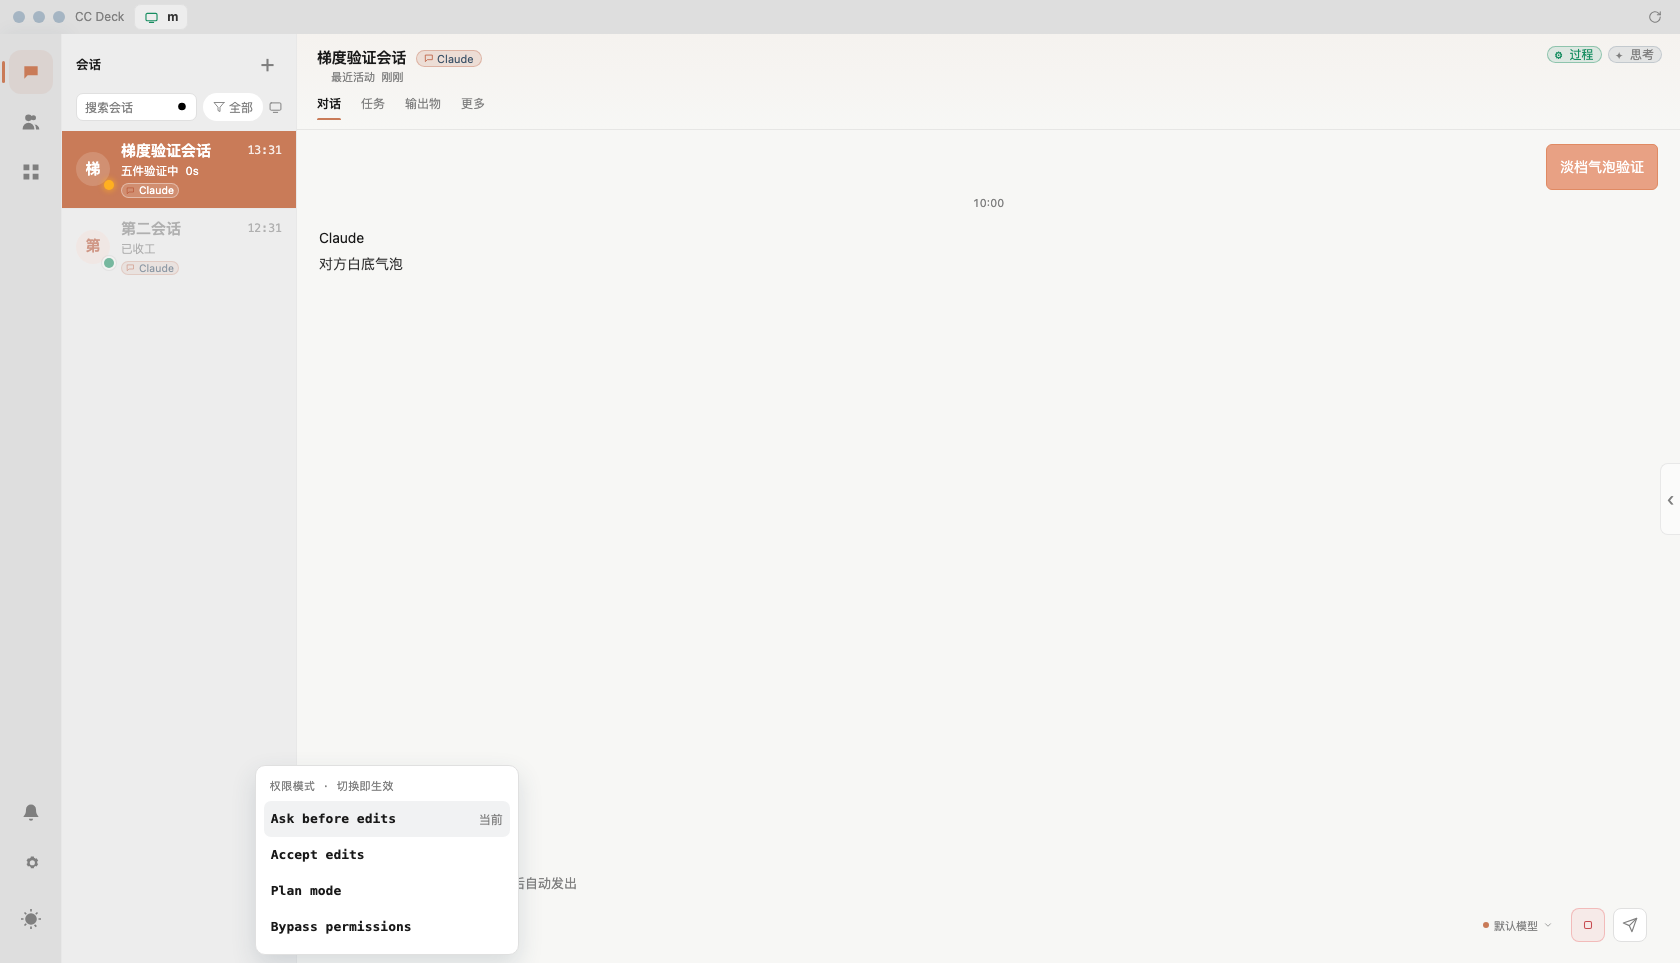
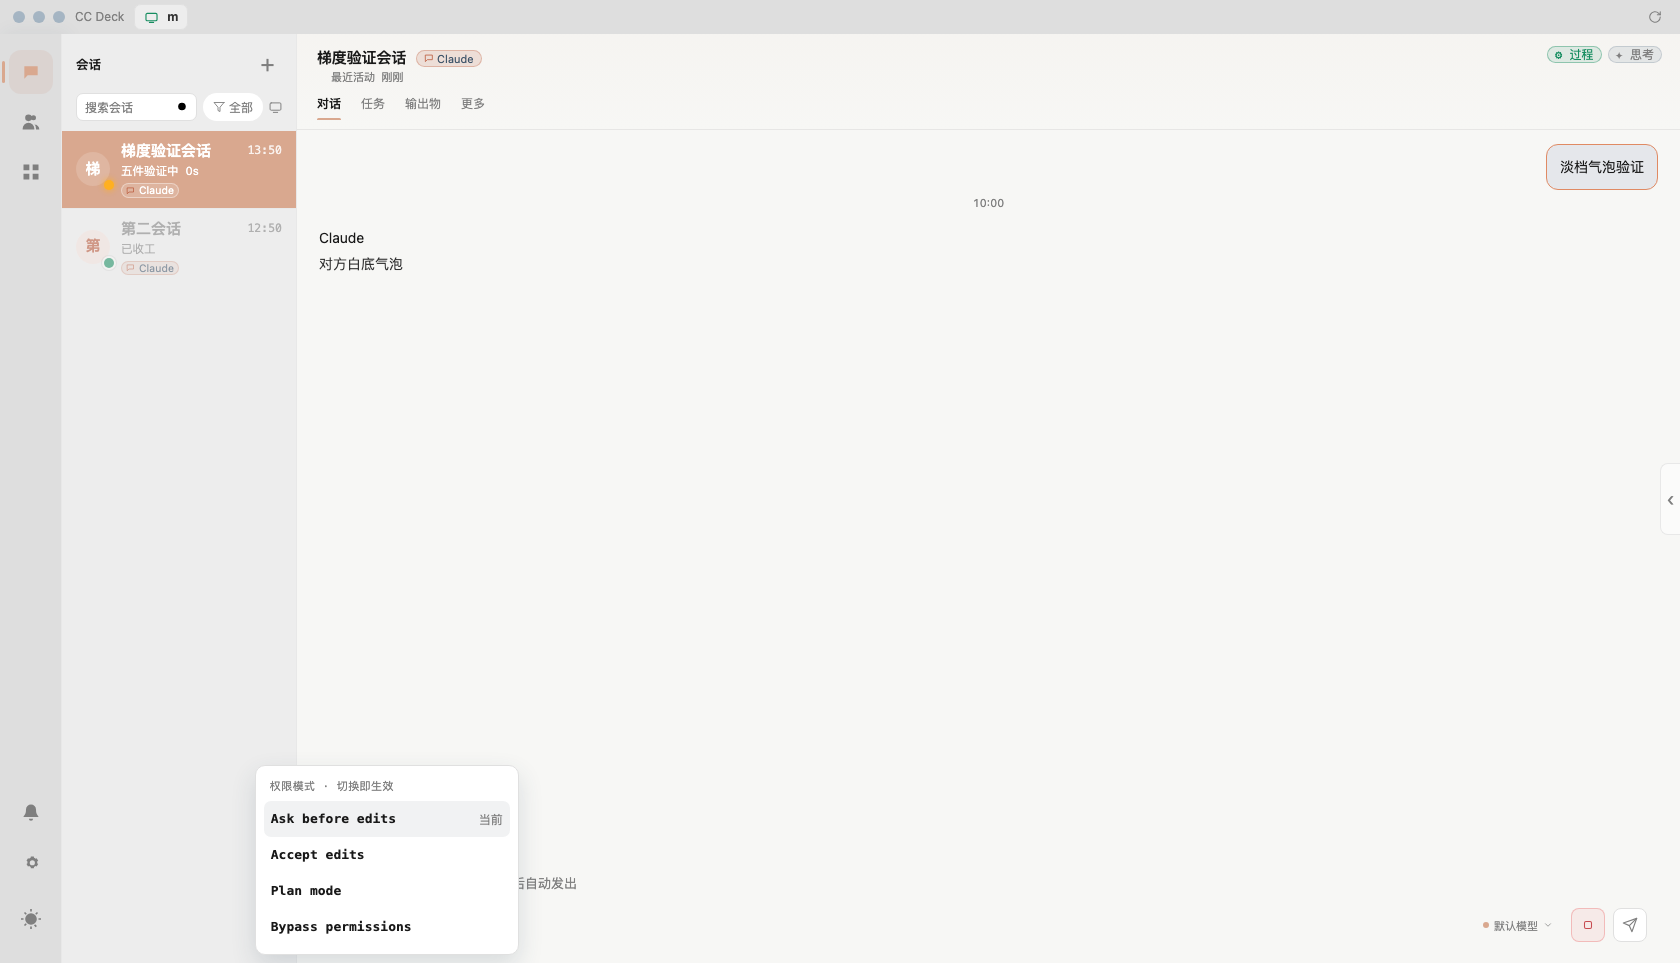
[正经立项] test.47 二轮：气泡换中性灰系+选中再降深度（#201 W-T47FIX 追加）
- 己方气泡橙系全退役→WorkBuddy 实证形态：亮 #E5E7EB 中性浅灰底+深色文字
  （--text-strong）、暗 #2A2F36 深灰底浅字（--text-strong 自动成立）；圆角
  6px→12px 大圆角（实证 ~30% 元素高）；.bubble.me 白字/白底代码块规则退役
- 选中行再降深度：亮 --brand/--selected-bg #C97B58→#D9A88F（浅灰橙向中性
  靠一档）；暗 #C97F60→#A8826C——选中可辨但轻
- 像素实证：亮选中行 #D9A88F ✓/亮气泡 #E5E7EB 22596 命中 ✓/暗气泡
  #2A2F36 253 命中 ✓；slim 35/0+ui-rows 143/0；五图重拍入 shots/

Changed region(s): [[0.031, 0.1246, 0.1857, 0.2181], [0.8976, 0.1246, 0.9905, 0.2181], [0.0, 0.0623, 0.031, 0.0935]]

diff --git a/web-console/css/tokens.css b/web-console/css/tokens.css
@@ -16,7 +16,7 @@
       --card-sub: #A9B6C9;
       --faint: #7A889F;
       --progress-fill: #6E8299;
-      --brand: #C97F60; /* #201①：暗色品牌橙降饱和档（原 #E08A63 太艳） */
+      --brand: #A8826C; /* #201 二轮：暗色选中降深度（浅一档向中性靠） */
       --brand-hover: #EC9A73;
       --brand-strong: #C96442;
       --brand-soft: #3A251F;
@@ -81,8 +81,8 @@
       --action-bg: rgba(226,133,94,.16);
       --done-bg: rgba(75,203,145,.12);
       --info-bg: rgba(126,175,232,.13);
-      --me-bg: #9C5535; /* #193：随 bubble-me-bg 暗色橙深档 */ /* W-UIPOLISH4 件八（2026-10-12 用户深色实测「与背景全同色」）：#0E1927 与对话列底 #0B1624 差 3/千亮度不可辨——抬到表面层 surface2 同值（旧壳 panel-2「表面层」语义同源），仅边框语言保留 */
-      --bubble-me-bg: #9C5535; /* #193：暗色己方气泡=品牌橙深档（终验抓出的漏改行——.bubble.me 消费此键） */
+      --me-bg: #2A2F36; /* #201 二轮：暗色己方气泡=深灰底（亮 #E5E7EB 对应档）+浅字 */
+      --bubble-me-bg: #2A2F36; /* #201 二轮：暗色深灰底 */
       --me-line: rgba(224,138,99,.45); /* #198 件③：暗色己方气泡描边随品牌橙（蓝灰与橙底同框突兀） */
       --action-ink: #211B0E;
       --done-ink: #082116;
@@ -179,7 +179,7 @@
       --card-sub: #808080; /* 微信摘要灰（#198 件②：#999 对浅底对比不足，提到 4.0:1 档） */
       --faint: #808080;
       --progress-fill: #B2B2B2;
-      --brand: #C97B58; /* #201①：选中橙降饱和档（#B85228 太艳→降饱和提明度，保持橙系身份；三列梯度⑤同批校准） */
+      --brand: #D9A88F; /* #201 二轮：选中色再降深度——浅灰橙（#C97B58→#D9A88F，向中性靠一档；选中态仍可辨但轻） */
       --brand-hover: #C96442;
       --brand-strong: #96391A;
       --brand-soft: #FBE7DE;
@@ -222,7 +222,7 @@
       --card-veil: #FFFFFF;
       --border-strong: #D5D5D5;
       --selected-line: #E08A63; /* #193：选中=品牌橙整行（.queue-card.selected 形制同批改） */
-      --selected-bg: #E8A184; /* #201①：选中橙降饱和档（随 --brand 同批） */
+      --selected-bg: #D9A88F; /* #201 二轮：随 --brand 浅灰橙档 */
       --shadow-hover: 0 8px 20px rgba(50,74,96,.14);
       --selected-shadow: 0 8px 20px rgba(50,74,96,.12);
       --status-done-glow: rgba(22,141,96,.24);
@@ -237,8 +237,8 @@
       --action-bg: rgba(200,100,64,.14);
       --done-bg: rgba(22,141,96,.11);
       --info-bg: rgba(57,120,184,.11);
-      --me-bg: #E8A184; /* #201①：气泡橙淡档（#E08A63 太艳→提明度降饱和） */
-      --bubble-me-bg: #E8A184; /* #201①：同 --me-bg 淡档（己方气泡白字可读保持） */
+      --me-bg: #E5E7EB; /* #201 二轮：己方气泡换中性浅灰（WorkBuddy 实证 #F1F1F1 系+深字——与微信同语言；橙气泡退役） */
+      --bubble-me-bg: #E5E7EB; /* #201 二轮：同 --me-bg 中性灰底 */
       --me-line: #E08A63;
       --action-ink: #3C2600;
       --done-ink: #073C27;

diff --git a/web-console/css/base.css b/web-console/css/base.css
@@ -802,7 +802,9 @@
        右上收 5px、边框 --me-line 改旧 --border 同值；时间戳气泡下方右对齐（.msg-user-row） */
     .bubble {max-width: 82%; padding: 11px 13px; margin-bottom: 11px; border: 1px solid transparent; border-radius: 6px; background: var(--surface2); color: var(--text); font-size: var(--fs-A);} /* #193：微信气泡形（白底无框 6px 圆角浮于浅灰聊天区；圆角 10→6） */
     .bubble:not(.me) { max-width: none; padding: 0; border: 0; border-radius: 0; background: transparent; }
-    .bubble.me { margin-left: auto; background: var(--bubble-me-bg); border-color: var(--me-line); border-radius: 6px; border-top-right-radius: 5px; color: #FFFFFF; } /* #193：己方=品牌橙底白字 */
+    .bubble.me { margin-left: auto; background: var(--bubble-me-bg); border-color: var(--me-line); border-radius: 12px; border-top-right-radius: 12px; color: var(--text-strong); } /* #201 二轮：己方=中性灰底+深色文字（WorkBuddy 实证大圆角 12px；白字退役）；暗色 --text-strong=浅字自动成立 */
+    .bubble.me a { color: var(--brand-strong, var(--brand)); }
+    .bubble.me code, .bubble.me pre { background: rgba(0,0,0,.06); color: inherit; }
     .msg-user-row { display: flex; flex-direction: column; align-items: flex-end; margin-bottom: 16px; } /* 件九：与 AI 块统一 16px 基线节奏（原 11/15 不齐） */
     .conversation-pane .message-ai { margin-bottom: 16px; }
     .conversation-pane .message-ai .mt { text-align: center; color: var(--faint); font-size: 11px; } /* #193：AI 侧时间戳同款居中灰 */ /* 件九：同上（原 15；升特异度压 base 源序） */
@@ -837,8 +839,7 @@
     .timeline-note.subagent-live { padding-left: 14px; text-align: left; overflow: hidden; text-overflow: ellipsis; white-space: nowrap; color: var(--working); }
     /* 用户气泡长文折叠（旧壳 #38/#149 口径：>100 字折 3 行 + 展开全文） */
     .bubble.me .ub { white-space: pre-wrap; word-break: break-word; }
-    .bubble.me a { color: #FFFFFF; text-decoration: underline; }
-    .bubble.me code, .bubble.me pre { background: rgba(255,255,255,.16); color: #FFFFFF; }
+    /* #201 二轮：橙底白字期规则随灰系气泡退役 */
     .bubble.me .ub.clamp { display: -webkit-box; -webkit-box-orient: vertical; -webkit-line-clamp: 3; line-height: 1.5; max-height: 4.5em; overflow: hidden; }
     .x-full { color: var(--dim); font-size: .78em; cursor: pointer; display: inline-block; user-select: none; margin-top: 5px; }
     .x-full:hover { text-decoration: underline; }
